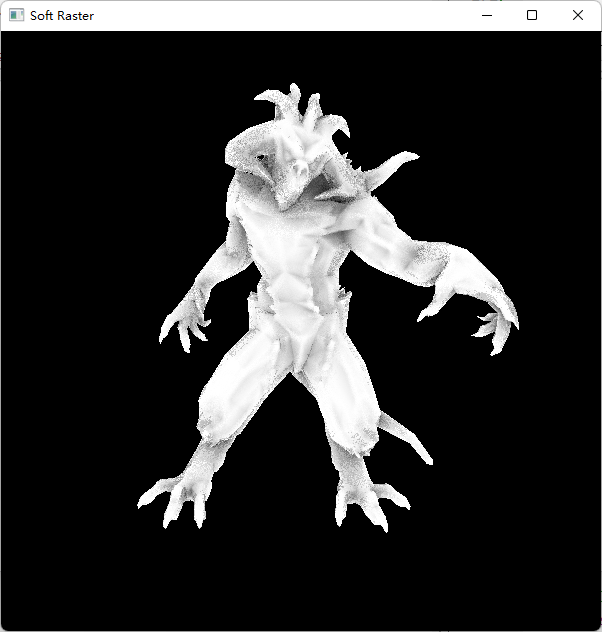
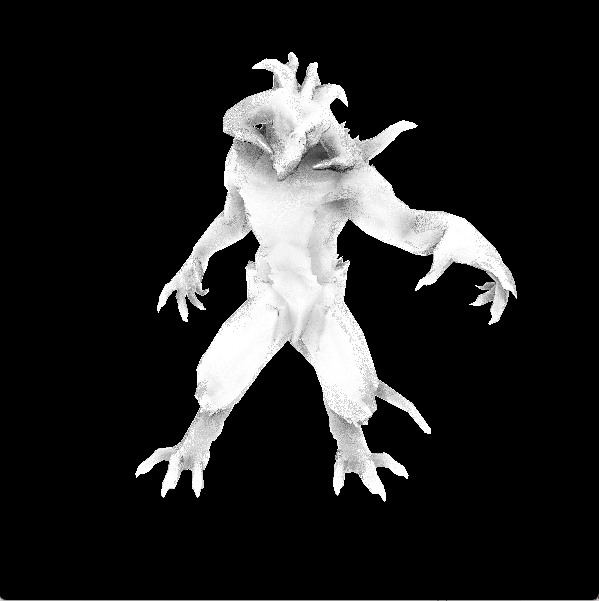
update: blin phong with shadow and AO

Changed region(s): [[0.2104, 0.0899, 0.8715, 0.8386], [0.0, 0.0, 1.0, 1.0], [0.0, 0.9884, 0.0301, 1.0]]

diff --git a/shader.h b/shader.h
@@ -53,6 +53,7 @@ class GeneralShader : public IShader {
     TGAImage* normalTexture;
     TGAImage* specTexture;
     QImage* shadowMap;
+    QImage* AOMap;      // 环境光遮蔽贴图
     Model* model;
     vec3 lightColor;
     float specStrength;
@@ -66,14 +67,15 @@ class GeneralShader : public IShader {
         // 不能在vertex阶段构造转换矩阵 因为经过插值后 矩阵的模可能!=1 因为矩阵中的向量被插值后模长小于1
         // 但为了减少计算量 对矩阵插值影响轻微 这里默许这么做
         mat3x3 tanToWorld;
+        vec4 clipPos;
     };
 
     v2f vertOutput[3];
 
  public:
-    GeneralShader(Model* _model, TGAImage* _diffuseTexture, TGAImage* _normalTexture, TGAImage* _specTexture, QImage* _shadowMap, const mat4x4& _world2Light, vec3 _lightColor = {1, 1, 1}, float _specStrength = 16.f, float _shadowBias = 0.02f) :
+    GeneralShader(Model* _model, TGAImage* _diffuseTexture, TGAImage* _normalTexture, TGAImage* _specTexture, QImage* _shadowMap, const mat4x4& _world2Light, QImage* _AOMap, vec3 _lightColor = {1, 1, 1}, float _specStrength = 16.f, float _shadowBias = 0.02f) :
         model(_model), diffuseTexture(_diffuseTexture), normalTexture(_normalTexture), specTexture(_specTexture),
-        shadowMap(_shadowMap), world2Light(_world2Light), lightColor(_lightColor), specStrength(_specStrength),
+        shadowMap(_shadowMap), world2Light(_world2Light), AOMap(_AOMap), lightColor(_lightColor), specStrength(_specStrength),
         shadowBias(_shadowBias)
     {}
 
@@ -89,9 +91,10 @@ class GeneralShader : public IShader {
         o.uv = model->uv(iface, nthvert);
         vec4 worldPos = MODEL_MATRIX * embed<4>(model->vert(iface, nthvert));
         o.worldPos = proj<3>(worldPos);
+        o.clipPos = VP_MATRIX * worldPos;
         vertOutput[nthvert] = o;
 
-        return VP_MATRIX * worldPos;
+        return o.clipPos;
     }
 
     virtual void Geometry() override {
@@ -131,19 +134,25 @@ class GeneralShader : public IShader {
         static int specHeight = specTexture->get_height();
         static int shadowMapWidth = shadowMap->width();
         static int shadowMapHeight = shadowMap->height();
+        static int AOMapWidth = AOMap->width();
+        static int AOMapHeight = AOMap->height();
 
         vec2 uv = {0, 0};
         vec3 worldPos = {0, 0, 0};
+        vec4 clipPos = {0, 0, 0, 0};
         mat3x3 tanToWorld = mat3x3::zero();
         for (int i = 0; i < 3; ++i) {
             uv = uv + barycentric[i] * vertOutput[i].uv;
             worldPos = worldPos + barycentric[i] * vertOutput[i].worldPos;
             tanToWorld = tanToWorld + vertOutput[i].tanToWorld * barycentric[i];
+            clipPos = clipPos + vertOutput[i].clipPos * barycentric[i];
         }
         // 计算由法线贴图获取的切线空间法向量 再转换为世界空间
         TGAColor rawTanNormal = normalTexture->get(uv.x * normalWidth, uv.y * normalHeight);
         vec3 tanNormal = {rawTanNormal[2] / 255.f * 2.f - 1.f, rawTanNormal[1] / 255.f * 2.f - 1.f, rawTanNormal[0] / 255.f * 2.f - 1.f};
         vec3 worldNormal = (tanToWorld * tanNormal).normalize();
+        vec2 screenPos = proj<2>(clipPos / clipPos.w);
+        screenPos = 0.5f * screenPos + 0.5f;
 
         vec3 lightDir = (LIGHT0.w == 0) ? embed<3>(LIGHT0) : (embed<3>(LIGHT0) - worldPos).normalize();
         vec3 viewDir = (CAMERA_POS - worldPos).normalize();
@@ -151,7 +160,7 @@ class GeneralShader : public IShader {
         // 图片加载已经经过y反转 不需要reverse y
         TGAColor rawAlbedo = diffuseTexture->get(uv.x * diffuseWidth, uv.y * diffuseHeight);
         vec4 albedo = {rawAlbedo[2] / 255.f, rawAlbedo[1] / 255.f, rawAlbedo[0] / 255.f, rawAlbedo[3] / 255.f};
-        float ambient = 0.2f;
+        float ambient = 0.3f * ((AOMap->pixel(screenPos.x * AOMapWidth, screenPos.y * AOMapHeight) & 0xff) / 255.f);
         float diff = clamp01(worldNormal * lightDir);
         // float specPower = specTexture->get(uv.x * specWidth, uv.y * specHeight)[0] / 255.f;
         float spec = std::pow(clamp01(halfDir * worldNormal), 16);
@@ -164,6 +173,7 @@ class GeneralShader : public IShader {
         shadow = 0.3f + 0.7f * ((lightP.z + shadowBias) > shadow);
 
         vec3 col = clamp01((ambient + shadow * (diff + spec)) * mul(lightColor, proj<3>(albedo)));
+        // col = ambient * lightColor;
         col = col * 255.f;
         outColor = (255 << 24) | ((uint8_t)col[0] << 16) | ((uint8_t)col[1] << 8) | ((uint8_t)col[2]);
         return false;
@@ -218,7 +228,7 @@ class HBAOShader : public IShader {
     // 对某一方向上的occlusion进行积分
     float CalAmbientOcclusionIntegralInOneDir(const vec3& originNDC, const vec2& dir, const vec3& normal) {
         float totalOcclusion = 0.f;
-        float topSin = 0.f;     // 记录积分开始的片段
+        float topSin = 0.03f;     // 记录积分开始的片段 从非零开始意味着忽略sinθ小于0.03的遮挡
 
         vec3 originView = CoordNDCToView(originNDC);
         vec2 texelSizeStep = mul(dir, vec2(2.f / zbufferWidth, 2.f / zbufferHeight));
@@ -259,7 +269,7 @@ class HBAOShader : public IShader {
     }
 
  public:
-    HBAOShader(Model* _model, float* _zbuffer, int _zbufferWidth, int _zbufferHeight, float _sampleRadius = 0.1f, float _sampleCount = 5.f, float _dirCount = 6.f) :
+    HBAOShader(Model* _model, float* _zbuffer, int _zbufferWidth, int _zbufferHeight, float _sampleRadius = 0.2f, float _sampleCount = 5.f, float _dirCount = 6.f) :
         model(_model), zbuffer(_zbuffer), zbufferWidth(_zbufferWidth), zbufferHeight(_zbufferHeight),
         sampleRadius(_sampleRadius), sampleCount(_sampleCount), dirCount(_dirCount)
     {}

diff --git a/widget.cpp b/widget.cpp
@@ -20,6 +20,9 @@ SoftRaster::SoftRaster(QWidget *parent) : QWidget(parent) {
     // init shadow map
     m_ShadowMap = new QRgb[m_WindowWidth * m_WindowHeight];
 
+    // init AO map
+    m_AOMap = new QRgb[m_WindowWidth * m_WindowHeight];
+
     // set shader env
     // 设置模型TRS
     vec3 translate(0, 0, 0);
@@ -30,7 +33,7 @@ SoftRaster::SoftRaster(QWidget *parent) : QWidget(parent) {
 
     // 设置相机参数
     vec3 worldUp(0, 1, 0);
-    vec3 cameraPos(0.5f, 0.5f, 2.5f);
+    vec3 cameraPos(0.5f, 0.5f, 2.5f);       // 0.5 0.5 2.5
     vec3 lookDir = vec3(0, 0, 0) - cameraPos;
     m_Camera = new Camera(cameraPos, lookDir, PI / 3.f, 1.f, 0.3f, 10.f);
 
@@ -57,7 +60,8 @@ SoftRaster::SoftRaster(QWidget *parent) : QWidget(parent) {
     m_Shader = new GeneralShader(
                 &africanHeadModel, diffuseImg, normalImg, specImg,
                 new QImage((uchar*)m_ShadowMap, m_WindowWidth, m_WindowHeight, QImage::Format_ARGB32),
-                m_PointLight->GetWorld2Light()
+                m_PointLight->GetWorld2Light(),
+                new QImage((uchar*)m_AOMap, m_WindowWidth, m_WindowHeight, QImage::Format_ARGB32)
                 );
     m_ShadowMapShader = new ShadowMapShader(&africanHeadModel);
     m_HBAOShader = new HBAOShader(&africanHeadModel, m_Zbuffer1, m_WindowWidth, m_WindowHeight);
@@ -75,6 +79,7 @@ SoftRaster::~SoftRaster() {
     delete[] m_Zbuffer;
     delete[] m_Zbuffer1;
     delete[] m_ShadowMap;
+    delete[] m_AOMap;
     delete m_Shader;
     delete m_ShadowMapShader;
     delete m_HBAOShader;
@@ -105,45 +110,9 @@ void SoftRaster::paintEvent(QPaintEvent*) {
             m_Zbuffer[i * m_WindowWidth + j] = Z_MIN;
             m_Zbuffer1[i * m_WindowWidth + j] = Z_MIN;
             m_ShadowMap[i * m_WindowWidth + j] = bgColor;
+            m_AOMap[i * m_WindowWidth + j] = bgColor;
         }
     }
-
-//    /// blin phong with shadow
-//    // Pass 0: render shader map
-//    {
-//        SetViewMatrix(m_PointLight->GetViewMatrix());
-//        SetProjectionMatrix(m_PointLight->GetProjectionMatrix());
-//        int faceCount = africanHeadModel.nfaces();
-//        for (int i = 0; i < faceCount; ++i) {
-//            vec4 clipPts[3];
-//            for (int j = 0; j < 3; ++j) {
-//                clipPts[j] = m_ShadowMapShader->Vertex(i, j);
-//            }
-//            Triangle(clipPts, m_ShadowMapShader, m_ShadowMap, m_Zbuffer);
-//        }
-//    }
-
-//    // Pass 1: render model
-//    {
-//#pragma omp parallel for
-//        for (int i = 0; i < m_WindowHeight; ++i) {
-//            for (int j = 0; j < m_WindowWidth; ++j) {
-//                m_Zbuffer[i * m_WindowWidth + j] = Z_MIN;
-//            }
-//        }
-//        SetViewMatrix(m_Camera->GetViewMatrix());
-//        SetProjectionMatrix(m_Camera->GetProjectionMatrix());
-//        int faceCount = africanHeadModel.nfaces();
-//        for (int i = 0; i < faceCount; ++i) {
-//            vec4 clipPts[3];
-//            for (int j = 0; j < 3; ++j) {
-//                clipPts[j] = m_Shader->Vertex(i, j);
-//            }
-//            m_Shader->Geometry();
-//            Triangle(clipPts, m_Shader, m_PixelBuffer, m_Zbuffer);
-//        }
-//    }
-
 
     /// HBAO rendering
     // Pass 0: z write
@@ -170,10 +139,53 @@ void SoftRaster::paintEvent(QPaintEvent*) {
                 clipPts[j] = m_HBAOShader->Vertex(i, j);
             }
             // 将深度写入m_Zbuffer1
-            Triangle(clipPts, m_HBAOShader, m_PixelBuffer, m_Zbuffer);
+            Triangle(clipPts, m_HBAOShader, m_AOMap, m_Zbuffer);
         }
     }
 
+    /// shadow rendering
+    // Pass 2: draw shadow map
+    {
+#pragma omp parallel for
+        for (int i = 0; i < m_WindowHeight; ++i) {
+            for (int j = 0; j < m_WindowWidth; ++j) {
+                m_Zbuffer[i * m_WindowWidth + j] = Z_MIN;
+            }
+        }
+        SetViewMatrix(m_PointLight->GetViewMatrix());
+        SetProjectionMatrix(m_PointLight->GetProjectionMatrix());
+        int faceCount = africanHeadModel.nfaces();
+        for (int i = 0; i < faceCount; ++i) {
+            vec4 clipPts[3];
+            for (int j = 0; j < 3; ++j) {
+                clipPts[j] = m_ShadowMapShader->Vertex(i, j);
+            }
+            Triangle(clipPts, m_ShadowMapShader, m_ShadowMap, m_Zbuffer);
+        }
+    }
+
+    /// blin phong rendering
+    // Pass 3: draw model
+    {
+#pragma omp parallel for
+        for (int i = 0; i < m_WindowHeight; ++i) {
+            for (int j = 0; j < m_WindowWidth; ++j) {
+                m_Zbuffer[i * m_WindowWidth + j] = Z_MIN;
+                m_PixelBuffer[i * m_WindowWidth + j] = bgColor;
+            }
+        }
+        SetViewMatrix(m_Camera->GetViewMatrix());
+        SetProjectionMatrix(m_Camera->GetProjectionMatrix());
+        int faceCount = africanHeadModel.nfaces();
+        for (int i = 0; i < faceCount; ++i) {
+            vec4 clipPts[3];
+            for (int j = 0; j < 3; ++j) {
+                clipPts[j] = m_Shader->Vertex(i, j);
+            }
+            m_Shader->Geometry();
+            Triangle(clipPts, m_Shader, m_PixelBuffer, m_Zbuffer);
+        }
+    }
 
     // timer end
     QueryPerformanceCounter(&endTime);

diff --git a/geometry.h b/geometry.h
@@ -34,6 +34,20 @@ vec<n> operator+(const vec<n>& lhs, const vec<n>& rhs) {
 }
 
 template<int n>
+vec<n> operator+(const vec<n>& lhs, const float rhs) {
+    vec<n> ret = lhs;
+    for (int i = n; i--; ret[i] += rhs);
+    return ret;
+}
+
+template<int n>
+vec<n> operator+(const float& lhs, const vec<n> rhs) {
+    vec<n> ret = rhs;
+    for (int i = n; i--; ret[i] += lhs);
+    return ret;
+}
+
+template<int n>
 vec<n> operator-(const vec<n>& lhs, const vec<n>& rhs) {
     vec<n> ret = lhs;
     for (int i = n; i--; ret[i] -= rhs[i]);

diff --git a/widget.h b/widget.h
@@ -30,6 +30,7 @@ private:
 
     QRgb* m_PixelBuffer = nullptr;  // 像素缓冲 color buffer
     QRgb* m_ShadowMap = nullptr;    //
+    QRgb* m_AOMap = nullptr;
     float* m_Zbuffer = nullptr;
     float* m_Zbuffer1 = nullptr;
 
